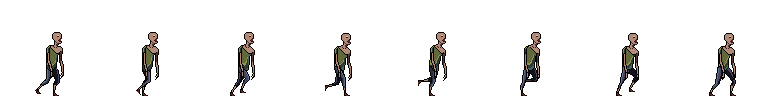
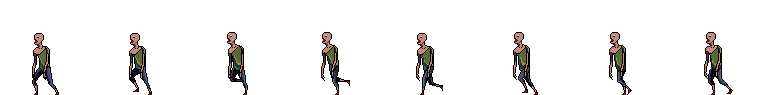
Feat+Fix: Added and animated img of enemy, fixed inverted img of enemy.

diff --git a/p2-js-game/script.js b/p2-js-game/script.js
@@ -14,8 +14,11 @@ let zombies = [];
 class Zombie {
     //Creates one blank object everytime its called with assigned properties
     constructor() {
-        this.width = 100;
-        this.height = 50;
+        //Zombie frame
+        this.zombieWidth = 96;
+        this.zombieHeight = 96;
+        this.width = this.zombieWidth/2;
+        this.height = this.zombieHeight/2;
         //Spawn from right to left 
         this.x = canvas.width;
         //Horizontal spawn position, random number between 0 and canvas height
@@ -24,14 +27,32 @@ class Zombie {
         this.directionX = Math.random() * 0.5 + 0.5;
         //Random vertical speed
         this.directionY = Math.random() * 0.5 - 0.5;
+        this.deleteZombie = false;
+        this.image = new Image();
+        this.image.src = 'Images/Zombie/Walk.png';
+        this.frame = 8;
+        this.maxFrame = 1;
+        this.timeSinceWalk = 0;
+        this.walkInterval = Math.random() * 75 + 75 
     }
-    //Moves zombies around
-    update(){
+    //Moves zombies
+    update(deltatime){
         this.x -= this.directionX;
+        if (this.x < 0 - this.width) this.deleteZombie = true;
+        //Interval of frames per milli-second
+        this.timeSinceWalk += deltatime;
+        if (this.timeSinceWalk > this.walkInterval){
+            if (this.frame < this.maxFrame) this.frame = 4;
+            else this.frame--;
+            this.timeSinceWalk = 0;
+        }
     }
     //Represents a single zombie object
     draw(){
-        ctx.fillRect(this.x, this.y, this.width, this.height);
+        ctx.strokeRect(this.x, this.y, this.width, this.height);
+        //source.i, source.x, source.y, source.w, source.h, dest.x, dest.y, dest.w, dest.h)
+        ctx.drawImage(this.image, this.frame * this.zombieWidth, 0, 
+            this.zombieWidth, this.zombieHeight, this.x, this.y, this.width, this.height);
     }
 }
 //Animation loop
@@ -47,9 +68,12 @@ function animate (timestamp){
         timeToNextZombie = 0;
     };
     //Array literals and spread operator(...)
-    //Expands zombies array into another array, spawns zombies periodically
-    [...zombies].forEach(object => object.update());
+    //Cycles thru zombies[] and triggers update()
+    [...zombies].forEach(object => object.update(deltatime));
     [...zombies].forEach(object => object.draw());
+    //Takes zombies[] and deletes it, replaces it with the same contents in zombies[] but only with deleteZombie property set to false
+    zombies = zombies.filter(object => !object.deleteZombie);
+    //console.log(zombies);
     //Creates endless animation loop
     requestAnimationFrame(animate);
 }

diff --git a/p2-js-game/style.css b/p2-js-game/style.css
@@ -6,9 +6,10 @@ body {
 }
 
 #canvas {
+    align-items: center;
     position: absolute;
     top: 0;
     left: 0;
     width: 100%;
-    height: 100%;
+    height: 80%;
 }
